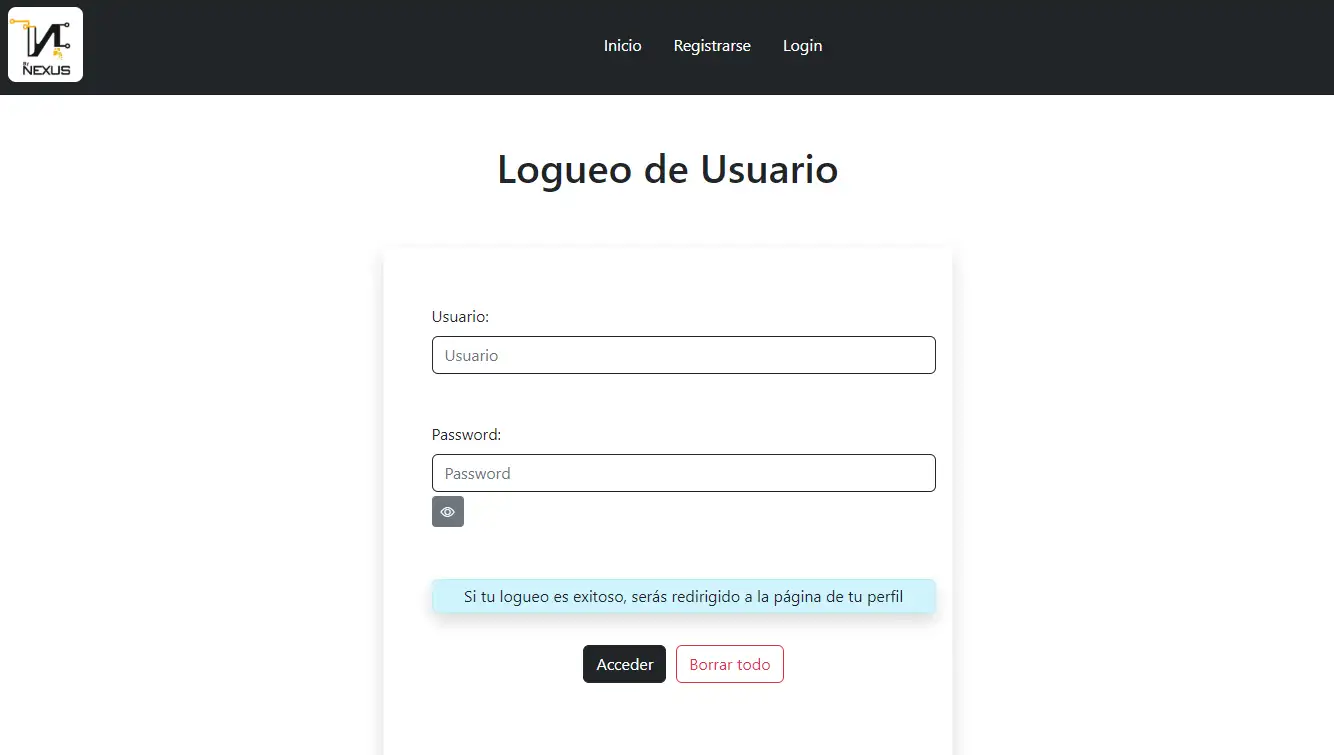
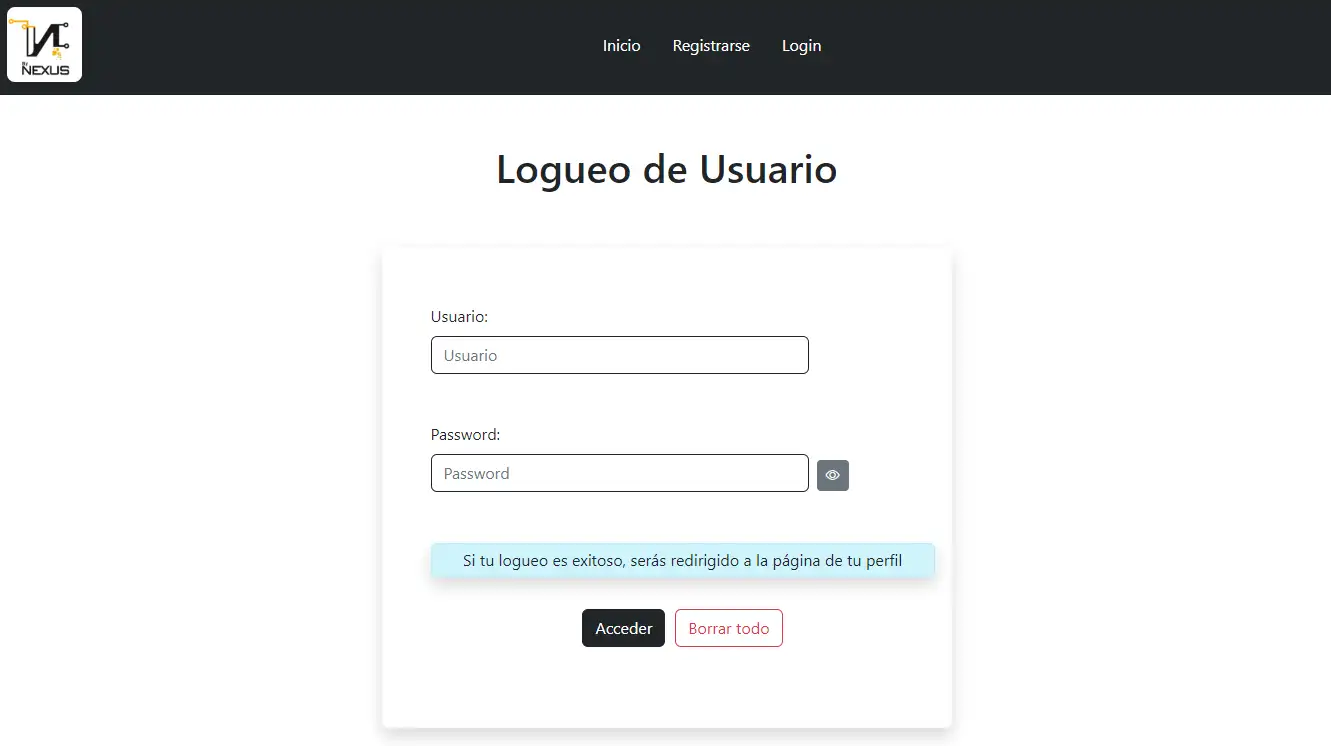
docs: se finaliza documentación

diff --git a/README.md b/README.md
@@ -32,6 +32,7 @@ Además posee una vista de administración para gestionar tareas y usuarios.
 - [Colores](#Colores)
 - [Accesibilidad](#Accesibilidad)
 - [Capturas del Sitio](#Capturas)
+- [Link](#Link)
 - [Contribuir](#Contribuir)
 - [Licencia](#Licencia)
 
@@ -502,7 +503,56 @@ Ejemplo de un error 404 (tarea no encontrada):
 
 ### Despliegue del Servidor
 
-El despliegue se puede realizar usando plataformas como Railway, Render, entre otras asegurándote de configurar correctamente las variables de entorno.
+Como se trata de un proyecto de práctica, alojamos el servidor en [**Glitch**](https://glitch.com/) que permite deployar proyectos **Node.js** tradicionales. En cuanto a la base de datos, la alojamos en [**FreeSQLdatabase**](https://www.freesqldatabase.com/). En ambos casos utilizamos planes gratuitos que poseen ciertas limitaciones. Sin embargo, el proyecto puede ser deployado en otras plataformas como Render, Railway, entre otras.
+
+Para poder deployar el servidor en Glitch es necesario agregar una configuración en el package.json (puedes hacerlo directamente en la plataforma):
+
+```
+"engines": {
+    "node": ">=14.17.6"
+  },
+```
+
+y luego agregar las variables de entorno en el archivo .env que se te genera en la plataforma luego de subir tu proyecto desde GitHub. Una limitación que posee esta plataforma es que si realizas cambios en tu repositorio luego de haberlo subido, estos cambios no se reflejaran, deberás agregarlos manualmente.
+
+Con respecto a la base de datos, si deseas alojarla en FreeSQLdatabase, tendrás que modificar la query. En este caso y dado que la base de datos es creada por la plataforma, solo modificaremos la forma de crear las tablas. Estos cambios aplican para todos aquellos hosting que poseen una versión antigua de MySQL.
+
+```
+-- Creación de la tabla usuario
+CREATE TABLE user_table (
+    user_id INT NOT NULL AUTO_INCREMENT,
+    user_name VARCHAR(100) NOT NULL,
+    user_pass VARCHAR(255) NOT NULL,
+    user_firstname VARCHAR(100) NOT NULL,
+    user_lastname VARCHAR(100) NOT NULL,
+    PRIMARY KEY (user_id),
+    UNIQUE KEY (user_name)
+);
+
+-- Creación de la tabla tarea
+CREATE TABLE task_table (
+    task_id INT NOT NULL AUTO_INCREMENT,
+    user_id INT NOT NULL,
+    task_title VARCHAR(255) NOT NULL,
+    task_description VARCHAR(255) NOT NULL,
+    task_date_created DATETIME,
+    task_date_modify TIMESTAMP DEFAULT CURRENT_TIMESTAMP ON UPDATE CURRENT_TIMESTAMP,
+    task_status VARCHAR(50) NOT NULL,
+    PRIMARY KEY (task_id),
+    FOREIGN KEY (user_id) REFERENCES user_table(user_id)
+);
+```
+
+Asimismo tendrás que cambiar algunas líneas en el archivo **task.model.js**, más precisamente en la función **createTask** para que al agregar una tarea, se contemplen los cambios realizados en la creación de las tablas.
+
+```
+const now = new Date().toISOString().slice(0, 19).replace('T', ' ');
+
+const [newTask] = await connection.execute(
+  'INSERT INTO task_table (user_id, task_title, task_description, task_date_created, task_status) VALUES (?, ?, ?, ?, ?)',
+  [user_id, task_title, task_description, now, task_status]
+);
+```
 
 [Ir al Indice](#Indice)
 
@@ -624,6 +674,8 @@ Asimismo se verificó la estructura HTML con **W3C Markup Validation Service** p
 
 ### Capturas
 
+Hay que tener en cuenta que los diseños originales, usados al momento de realizar esta documentación, pueden variar en relación a la versión actual del proyecto.
+
 ### Vista de usuario
 
 **Inicio**
@@ -663,6 +715,12 @@ Asimismo se verificó la estructura HTML con **W3C Markup Validation Service** p
 ### Funcionamiento
 
 ![muestra una imagen animada con todo el funcionamiento del sitio web](./public/img/proyect-docs/funcionamiento.gif)
+
+[Ir al Indice](#Indice)
+
+## Link
+
+Puedes acceder a la versión navegable haciendo click [AQUÍ](https://to-do-list-bootcamp.glitch.me/)
 
 [Ir al Indice](#Indice)
 
